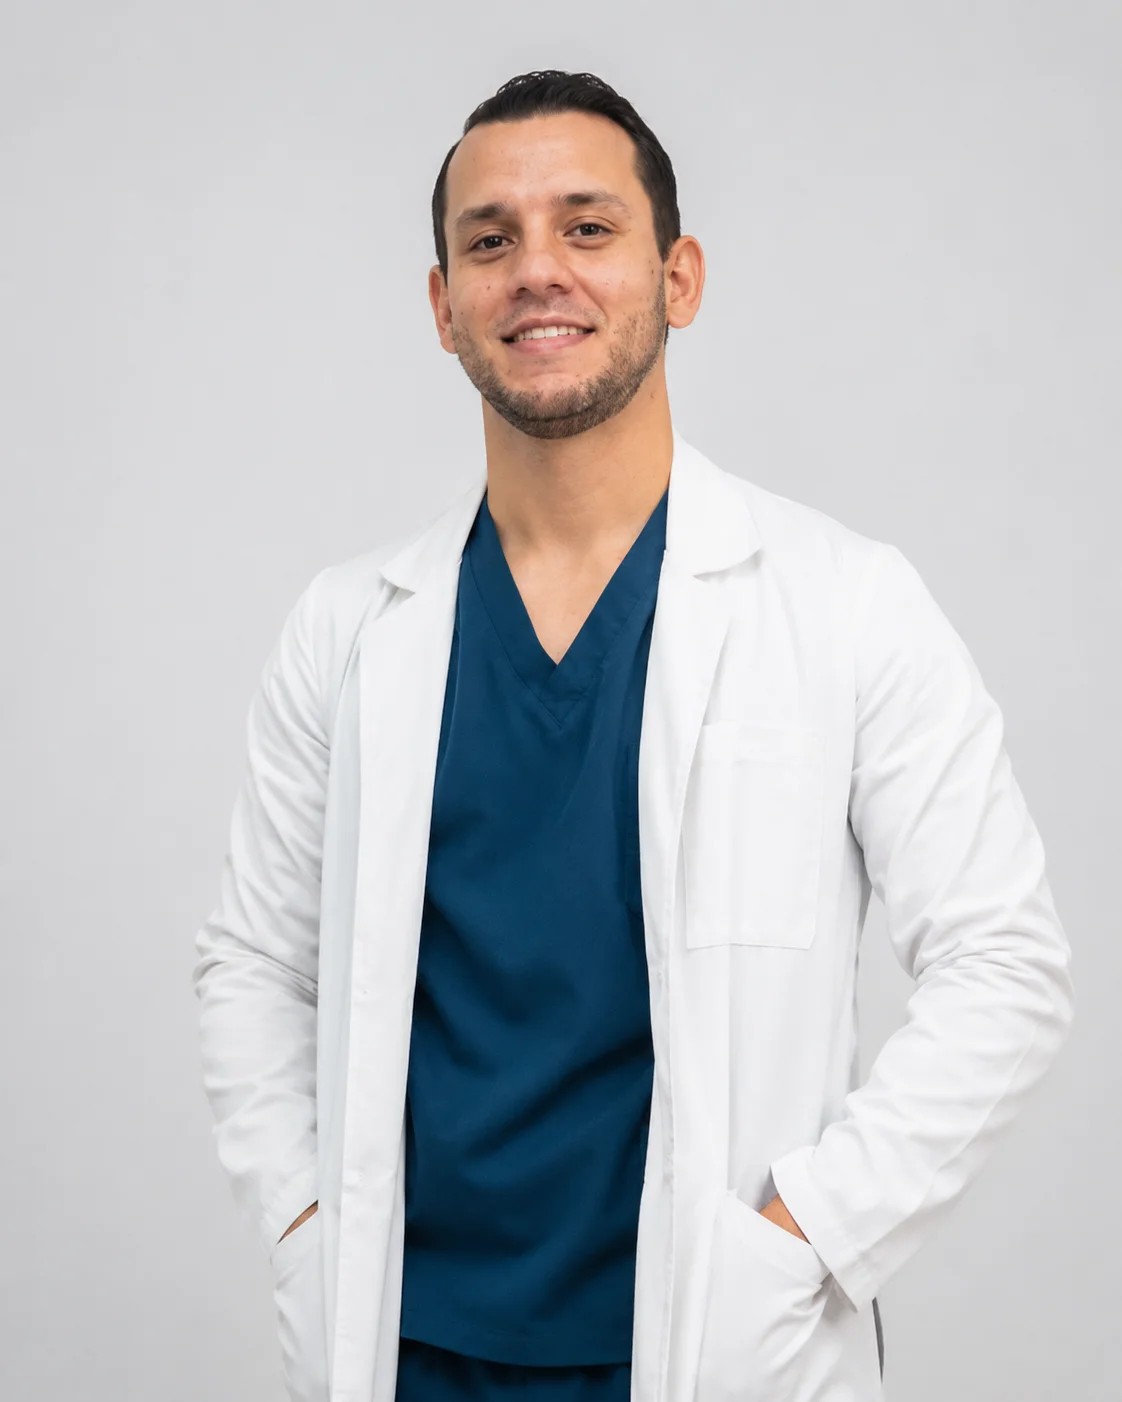
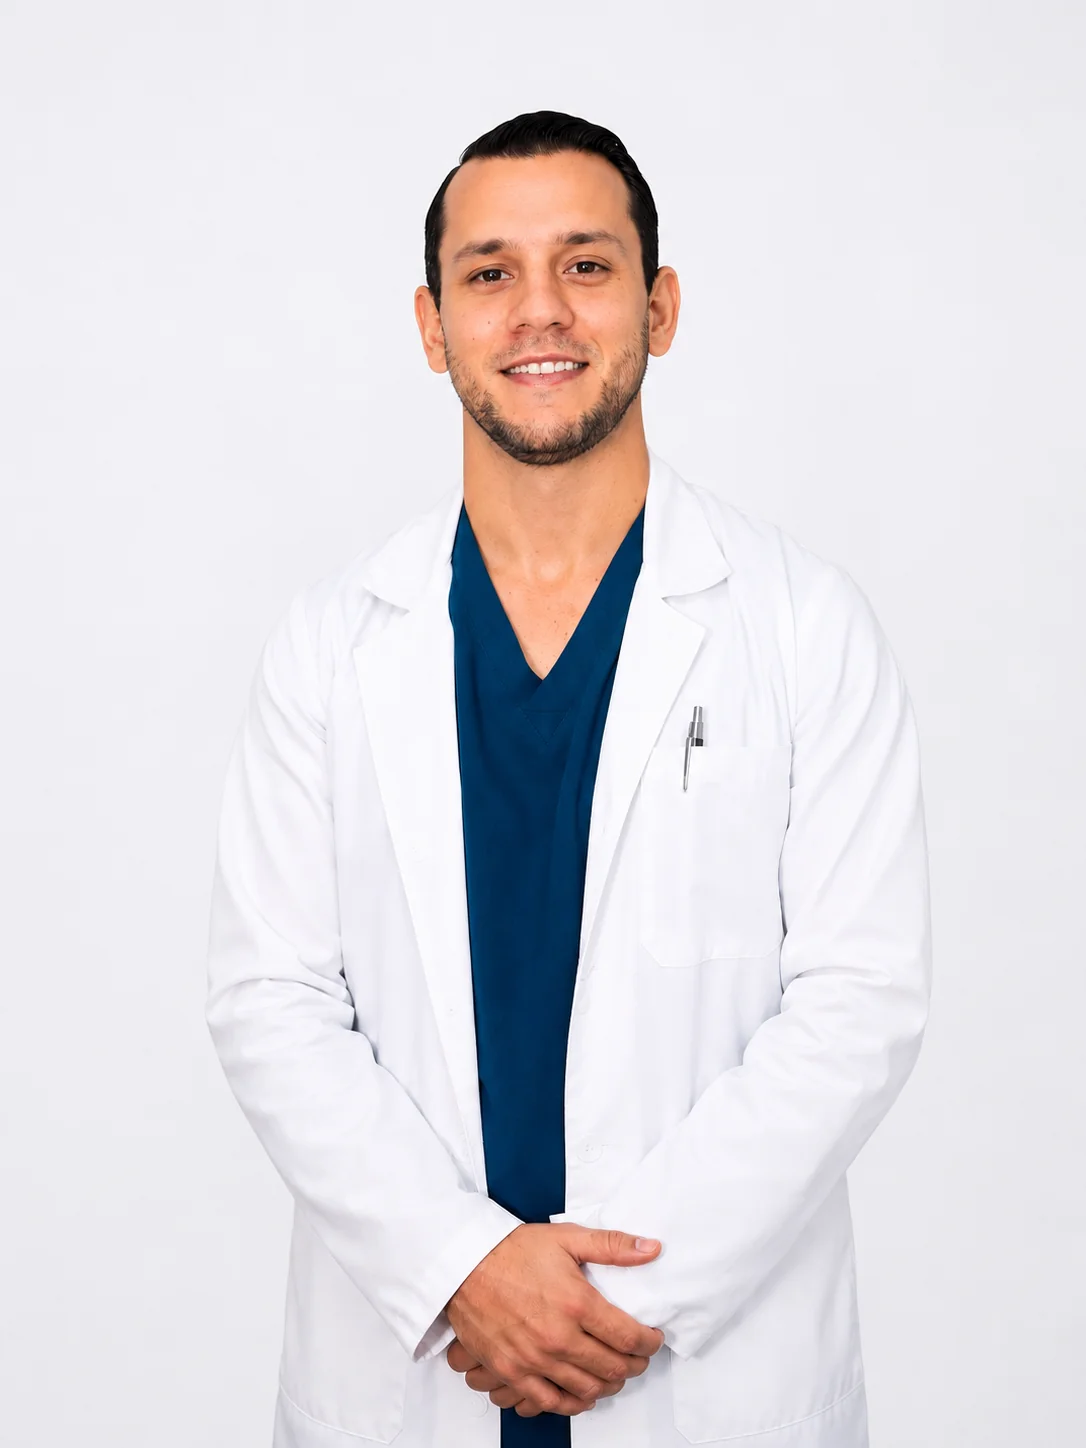
update Dr. Tomas photo and Dra. Gilda credentials
- Replace doctor-tomas.webp with new headshot (1522KB PNG → 39KB WebP)
- Switch Especialidades.tsx to use local webp for Tomas (drop CDN asset.json)
- Update Dra. Gilda Gomez credentials to her corrected version (5 items)

diff --git a/src/data/doctors.ts b/src/data/doctors.ts
@@ -167,11 +167,11 @@ export const DOCTORS: Doctor[] = [
     photoSrc: photoGilda,
     bio: "Anestesióloga y especialista en Terapia del Dolor con más de cuatro décadas en el Hospital Central 'Dr. Urquinaona' de Maracaibo, donde fundó el Servicio de Terapia del Dolor. En ALGOS integra protocolos de algología, manejo del dolor postoperatorio y cuidados paliativos para pacientes con dolor crónico complejo.",
     credentials: [
-      "Médico Anestesióloga · Especialista en Terapia del Dolor",
-      "Fundadora y Jefa de Terapia del Dolor · Hospital Central 'Dr. Urquinaona', Maracaibo",
-      "Jefa del Dpto. de Anestesiología y Terapia del Dolor · H.C. 'Dr. Urquinaona' (2011–actualidad)",
-      "Directora Médica · Hospice Venezuela, Fundación pacientes oncológicos terminales (2009–2013)",
-      "Médica asesora · Fundación Zuliana Fibromialgia, Maracaibo (2010–actualidad)",
+      "Médico Especialista en Anestesiología · Subespecialidad en Dolor y Cuidados Paliativos",
+      "Fundadora · Unidad de Terapia del Dolor (1999) · Hospital Central 'Dr. Urquinaona', Maracaibo",
+      "Jefa · Unidad de Dolor, Dpto. de Anestesiología · Hospital Central Maracaibo",
+      "Directora Médica · Hospice de Venezuela · Dolor Oncológico y Cuidados Paliativos (2009–2013)",
+      "Coordinadora · Entrenamiento Avanzado en Dolor para Anestesiólogos · Universidad del Zulia",
     ],
     languages: ["Español"],
   },

diff --git a/src/pages/Especialidades.tsx b/src/pages/Especialidades.tsx
@@ -8,7 +8,7 @@ import { UserRound } from "lucide-react";
 import drAtilioAsset from "@/assets/Atilio_foto_cortada.png.asset.json";
 import teamDanielAsset from "@/assets/daniel-rodriguez.png.asset.json";
 import antulioAsset from "@/assets/team/antulio-parra.png.asset.json";
-import tomasAsset from "@/assets/team/tomas-iragorry.png.asset.json";
+import photoTomas from "@/assets/team/doctor-tomas.webp";
 import carolinaAsset from "@/assets/team/carolina-rodriguez.png.asset.json";
 import leslieAsset from "@/assets/team/leslie-ramirez.png.asset.json";
 import gildaAsset from "@/assets/team/gilda-gomez.png.asset.json";
@@ -28,7 +28,7 @@ const SPECIALTY_TO_DOCTORS: Record<string, Specialist[]> = {
   ],
   "traumatologia": [
     { name: "Dr. Antulio Parra", photo: antulioAsset.url, photoPosition: "center top" },
-    { name: "Dr. Tomás Iragorry", photo: tomasAsset.url, photoPosition: "center top" },
+    { name: "Dr. Tomás Iragorry", photo: photoTomas, photoPosition: "center top" },
     { name: "Dr. Miguel Guevara" },
   ],
   "reumatologia": [{ name: "Dra. Jannine Viloria" }],
